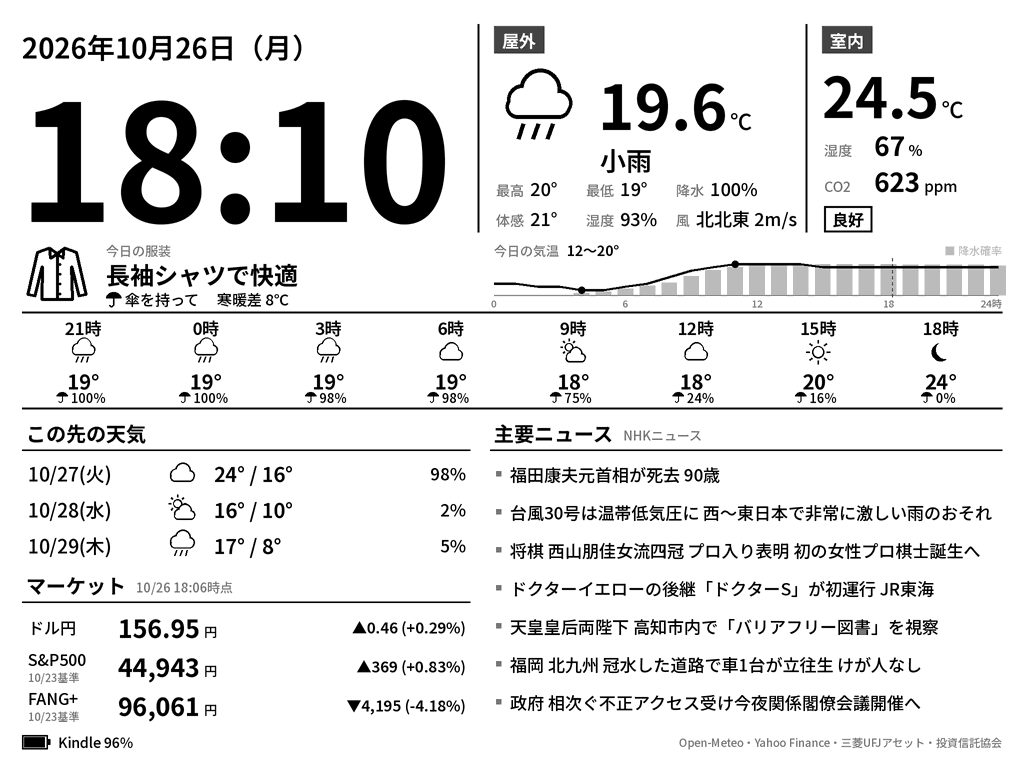
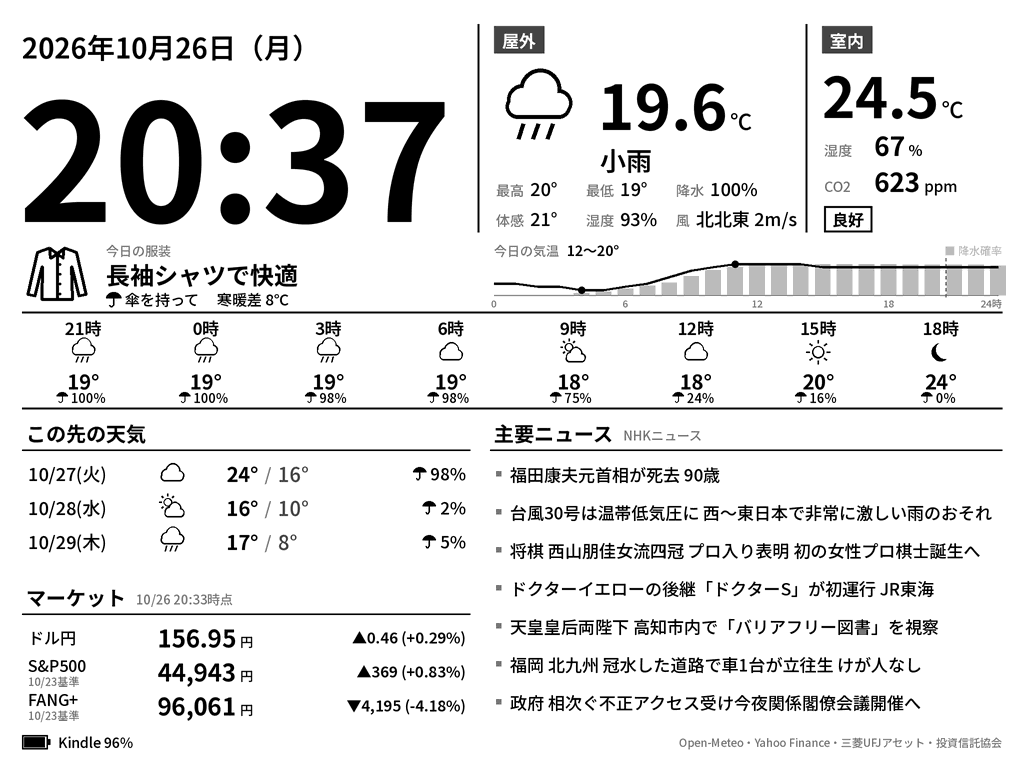
kindle_dashboard: balance spacing of forecast and market sections
Lay out the lower-left column on a fixed grid (heading 38, rows 34,
section gap 24), right-align prices and daily max temps, and add an
umbrella to daily precipitation.

Claude-Session: https://claude.ai/code/session_01U5J8BxMP2MPkhSzA51AjtL

diff --git a/kindle_dashboard/server/dashboard/render.py b/kindle_dashboard/server/dashboard/render.py
@@ -312,39 +312,52 @@ def draw_heading(c: Canvas, x0, x1, y, title, sub=""):
     c.line(x0, y + 32, x1, y + 32, 1.5)
 
 
+# 下段左列の縦の割り付け: 見出し(38) + 3 行 + 間(24) + 見出し(38) + 3 行 = 418〜722
+LOWER_TOP = 418
+HEADING_H = 38
+ROW_H = 34
+SECTION_GAP = 24
+LEFT_X0, LEFT_X1 = M, 470
+
+
 def draw_daily(c: Canvas, w: Weather | None):
-    x0, x1, y = M, 470, 418
+    x0, x1, y = LEFT_X0, LEFT_X1, LOWER_TOP
     draw_heading(c, x0, x1, y, "この先の天気")
     for i, d in enumerate(w.daily if w else []):
-        top = y + 38 + i * 36
-        mid = top + 17
-        c.text(x0 + 6, mid, f"{d.date.month}/{d.date.day}({WEEKDAYS[d.date.weekday()]})", 19, "Medium", anchor="lm")
-        c.weather_icon(d.code, x0 + 160, mid, 32)
-        c.text(x0 + 192, mid, f"{_deg(d.t_max)} / {_deg(d.t_min)}", 20, "SemiBold", anchor="lm")
-        c.text(x1 - 4, mid, _pct(d.precip_prob), 17, "Medium", anchor="rm")
+        mid = y + HEADING_H + i * ROW_H + ROW_H / 2
+        c.text(x0 + 6, mid, f"{d.date.month}/{d.date.day}({WEEKDAYS[d.date.weekday()]})", 18, "Medium", anchor="lm")
+        c.weather_icon(d.code, x0 + 150, mid, 30)
+        c.text(x0 + 236, mid, _deg(d.t_max), 20, "Bold", anchor="rm")
+        c.text(x0 + 246, mid, "/", 18, "Medium", fill=GRAY, anchor="mm")
+        c.text(x0 + 256, mid, _deg(d.t_min), 20, "Medium", fill=DARK, anchor="lm")
+        if d.precip_prob is not None:
+            label = f"{d.precip_prob}%"
+            c.text(x1 - 4, mid, label, 17, "Medium", anchor="rm")
+            c.umbrella(x1 - 4 - c.text_width(label, 17, "Medium") - 11, mid, 13)
 
 
 def draw_market(c: Canvas, quotes: list[Quote | str]):
     """quotes の要素が str のときは、まだ取得できていない銘柄のラベル。"""
-    x0, x1, y = M, 470, 570
+    x0, x1 = LEFT_X0, LEFT_X1
+    y = LOWER_TOP + HEADING_H + 3 * ROW_H + SECTION_GAP
     times = [q.time for q in quotes if isinstance(q, Quote) and q.time]
     t = max(times) if times else None
     sub = f"{t.month}/{t.day} {t:%H:%M}時点" if t else ""
     draw_heading(c, x0, x1, y, "マーケット", sub)
+    value_right = x0 + 214  # 数値は右揃えで桁を合わせる
     for i, q in enumerate(quotes[:3]):
-        top = y + 38 + i * 39
-        mid = top + 19
+        mid = y + HEADING_H + i * ROW_H + ROW_H / 2
         if isinstance(q, str):
             c.text(x0 + 6, mid, q, 16, "Medium", anchor="lm")
-            c.text(x0 + 96, mid, "—", 25, "Bold", anchor="lm")
+            c.text(value_right, mid, "—", 24, "Bold", anchor="rm")
             continue
         if q.as_of:  # 投資信託は基準日をラベルの下に出す
-            c.text(x0 + 6, mid - 7, q.label, 16, "Medium", anchor="lm")
-            c.text(x0 + 6, mid + 11, f"{q.as_of.month}/{q.as_of.day}基準", 11, "Medium", fill=GRAY, anchor="lm")
+            c.text(x0 + 6, mid - 6, q.label, 16, "Medium", anchor="lm")
+            c.text(x0 + 6, mid + 10, f"{q.as_of.month}/{q.as_of.day}基準", 11, "Medium", fill=GRAY, anchor="lm")
         else:
             c.text(x0 + 6, mid, q.label, 16, "Medium", anchor="lm")
-        vw = c.text(x0 + 96, mid, _num(q.price, q.decimals), 25, "Bold", anchor="lm")
-        c.text(x0 + 100 + vw, mid + 4, q.unit, 13, "Medium", anchor="lm")
+        c.text(value_right, mid, _num(q.price, q.decimals), 24, "Bold", anchor="rm")
+        c.text(value_right + 4, mid + 4, q.unit, 13, "Medium", anchor="lm")
         mark = "▲" if q.change > 0 else "▼" if q.change < 0 else "±"
         change = f"{mark}{_num(abs(q.change), q.decimals)} ({q.change_pct:+.2f}%)"
         c.text(x1 - 4, mid, change, 15, "SemiBold", anchor="rm")
